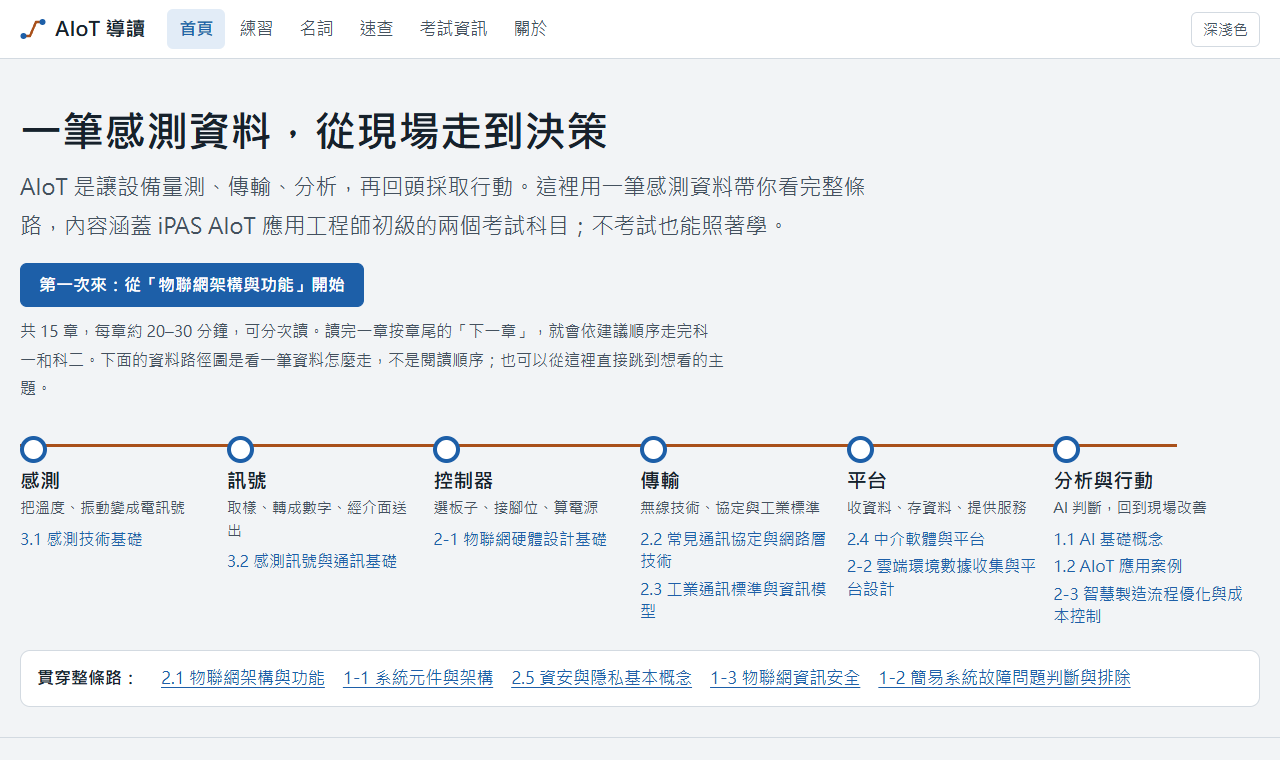
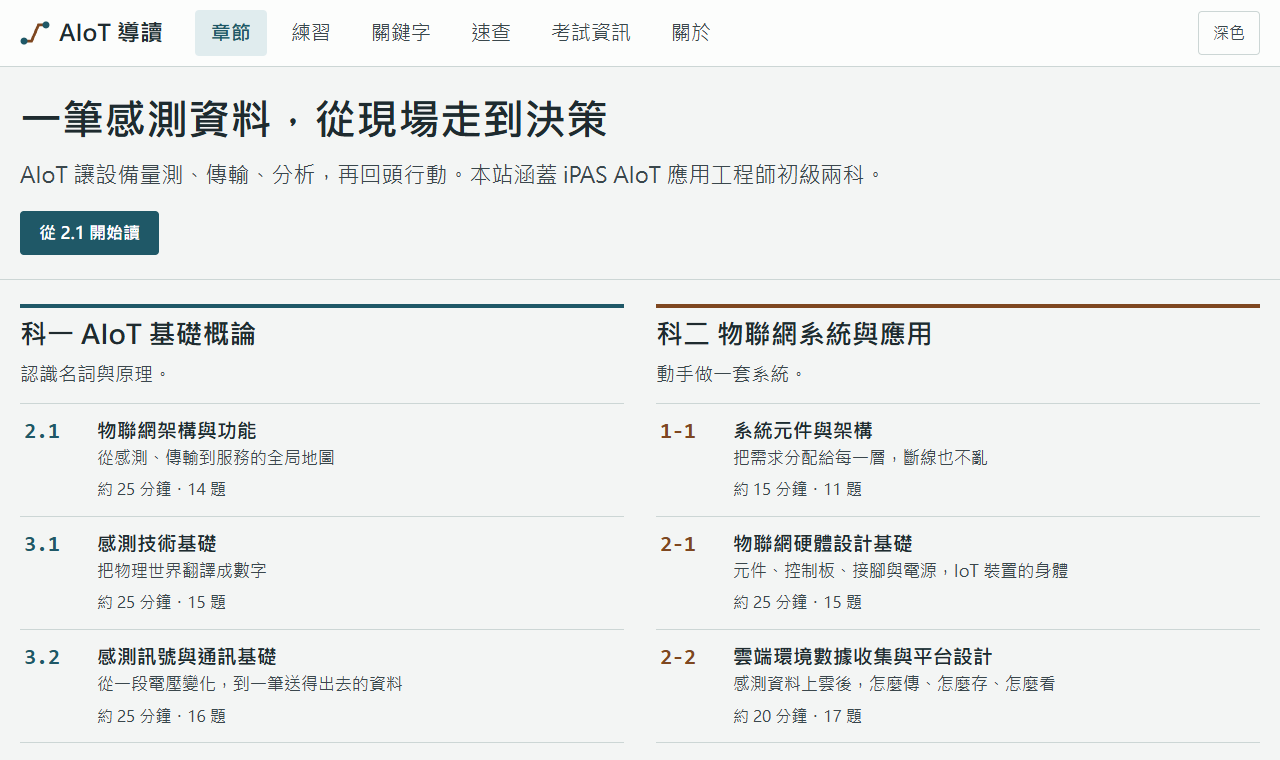
Cut the README to what a visitor needs
Keep what the site is, the link, the unofficial notice and a current
home page screenshot. Drop the chapter table (its counts were out of
date), design notes, checks, structure and the four screenshots only the
README used.

diff --git a/scripts/make-screenshots.js b/scripts/make-screenshots.js
@@ -1,4 +1,4 @@
-// Regenerates README screenshots from a built dist/. Needs: node scripts/serve.mjs 8799 running
+// Regenerates the README screenshot from a built dist/. Needs: node scripts/serve.mjs 8799 running
 // (or SHOT_BASE pointing at any server for dist/). Rerun after changing titles or layout.
 const {chromium} = require('@playwright/test');
 const {mkdirSync} = require('fs');
@@ -15,10 +15,6 @@ mkdirSync('docs/assets', {recursive: true});
     await p.close();
   };
   await shot({width: 1280, height: 760}, 'index.html', 'home.png');
-  await shot({width: 900, height: 900}, 's1-22.html', 'lab-wireless.png', '[data-lab=wireless]');
-  await shot({width: 900, height: 900}, 's1-32.html', 'lab-adc.png', '[data-lab=s1-32-adc]');
-  await shot({width: 390, height: 780}, 's1-22.html', 'mobile-chapter.png');
-  await shot({width: 390, height: 780}, 's2-21.html', 'mobile-lab.png', '[data-lab=s2-21-pin]');
   await b.close();
   console.log('screenshots written');
 })();

diff --git a/README.md b/README.md
@@ -1,103 +1,9 @@
 # AIoT 導讀
 
-**感測器量到一個數字之後，要經過哪些選擇，才變成一個可以行動的決定？**
+給零基礎讀者的 AIoT 學習網站，涵蓋 iPAS「AIoT 應用工程師（初級）」兩個學科。
 
-[線上閱讀](https://kuotunyu.github.io/aiot-guide/)
+**[線上閱讀](https://kuotunyu.github.io/aiot-guide/)**
 
-[![Quality](https://github.com/kuotunyu/aiot-guide/actions/workflows/quality.yml/badge.svg)](https://github.com/kuotunyu/aiot-guide/actions/workflows/quality.yml)
-[![External links](https://github.com/kuotunyu/aiot-guide/actions/workflows/link-health.yml/badge.svg)](https://github.com/kuotunyu/aiot-guide/actions/workflows/link-health.yml)
-[![Code: MIT](https://img.shields.io/badge/code-MIT-yellow.svg)](LICENSE)
-[![Content: CC BY 4.0](https://img.shields.io/badge/content-CC%20BY%204.0-lightgrey.svg)](LICENSE-CONTENT.md)
+> 個人製作的非官方網站，與 iPAS 及主辦單位無關，不收錄官方試題。考試規則以官方公告為準。
 
-給想學 AIoT、或正在準備 iPAS「AIoT 應用工程師（初級）」兩個學科的人的繁體中文學習網站。不需要 AI、電子或網路背景。全部內容跟著同一家冷鏈物流公司走：冷藏庫的探頭、全台跑的貨車、每天進出倉的貨箱，都要把資料送上平台。
-
-> 本站為個人製作的非官方網站，與 iPAS、經濟部及主辦、承辦、執行單位無關，也不收錄官方歷屆試題。考試規則請以官方公告為準。
-
-![首頁：一筆感測資料的路徑](docs/assets/home.png)
-
-## 畫面
-
-| 替需求選無線技術：看誰被排除、為什麼 | 取樣與 ADC：調參數看混疊與量化 |
-|---|---|
-| ![無線選型實驗](docs/assets/lab-wireless.png) | ![取樣與 ADC 實驗](docs/assets/lab-adc.png) |
-
-<div align="center">
-<img src="docs/assets/mobile-chapter.png" width="260" alt="手機版章節頁"> <img src="docs/assets/mobile-lab.png" width="260" alt="手機版實驗">
-</div>
-
-## 內容
-
-15 章對應官方評鑑內容，共 25 個互動實驗、81 張圖解、8 支動畫、205 題自編練習與 267 個關鍵字。
-
-| 科目 | 章 | 動手做什麼 |
-|---|---|---|
-| 科一 | 1.1 AI 基礎概念 | 判斷模型該放邊緣還是雲端 |
-| 科一 | 1.2 AIoT 應用案例 | 調壓縮機告警門檻，比較誤報與漏報的代價 |
-| 科一 | 2.1 物聯網架構與功能 | 把元件分到三層；點路徑看斷在哪一段 |
-| 科一 | 2.2 通訊協定與網路技術 | 選無線技術；寫 MQTT 訂閱條件；看 QoS 遇到遺失時的行為 |
-| 科一 | 2.3 工業通訊標準與資訊模型 | 比較 Modbus 暫存器與 OPC UA 節點 |
-| 科一 | 2.4 中介軟體與平台 | 替資料選儲存方式；切換雲端責任分工 |
-| 科一 | 2.5 資安與隱私 | 選對加密與簽章的鑰匙；把事件對應到 CIA |
-| 科一 | 3.1 感測技術基礎 | 探頭打靶，分清準確度與精密度；算 Pt100 與冷接點補償 |
-| 科一 | 3.2 感測訊號與通訊基礎 | 調取樣率與位元數；替連線選介面 |
-| 科二 | 1-1 系統元件與架構 | 模擬貨車進隧道的暫存與補傳 |
-| 科二 | 1-2 故障判斷與排除 | 自己選檢查項目，從線索推原因 |
-| 科二 | 1-3 物聯網資訊安全 | 重放攻擊與不同防護的結果 |
-| 科二 | 2-1 硬體設計基礎 | 上拉、下拉、浮接；估算電池續航 |
-| 科二 | 2-2 雲端數據與平台 | 比較輪詢、長輪詢與 WebSocket；比較資料格式大小 |
-| 科二 | 2-3 智慧製造與成本 | 拆解 OEE；算投資回收期 |
-
-另有[練習](https://kuotunyu.github.io/aiot-guide/practice.html)、[關鍵字](https://kuotunyu.github.io/aiot-guide/glossary.html)、[公式與重點速查](https://kuotunyu.github.io/aiot-guide/reference.html)與[考試資訊](https://kuotunyu.github.io/aiot-guide/exam.html)。每章都能由瀏覽器語音朗讀。
-
-## 教學設計
-
-- **先判斷，再展開。** 每節先給一個情境題，答案預設收起。核心內容放主文，規格數字與版本演進收在可展開的區塊，但不刪除。
-- **同一個案例貫穿全站。** 不用每章重新理解一個新情境，也看得出章節之間怎麼接起來。
-- **實驗教取捨，不教按鈕。** 只在動手比讀文字更清楚時才做。簡化模型會在介面上明說，沒有分數、徽章或倒數。
-- **不押題。** 不寫出題頻率，也不把分數當成通過機率。容易混淆的地方另外整理。
-- **事實可回查。** 每章列出參考的標準與原廠文件。官方指引和通行事實不一致時，主文寫通行事實，並註明差異。
-
-## 工程
-
-純靜態網站：內容是 `content/` 裡的 JSON，`build.py` 用 Python 標準函式庫產生 `dist/`，瀏覽器端不用框架，也不載入任何外部資源或追蹤程式。`dist/` 可以直接雙擊開啟，影片與實驗都能離線使用。
-
-| 檢查 | 內容 |
-|---|---|
-| Playwright | 桌面與手機兩種裝置，每頁無 console 錯誤、無外部請求、無橫向捲動；每個實驗實際操作 40 步；練習、關鍵字搜尋、朗讀、深淺色流程 |
-| axe-core | 不允許 critical 與 serious 等級的無障礙問題 |
-| 實驗邏輯 | 每章的純函式都有測試，數值經手算核對；MQTT 比對用規格書的範例 |
-| 靜態檢查 | 內部連結與錨點、結構化資料、對比度下限、資產預算、禁用語、sitemap |
-| 建置檢查 | HTML 與 SVG 規格、marker id 唯一、禁用語 |
-| 外部連結 | 每週用 lychee 檢查來源是否失效 |
-
-```bash
-npm install
-npx playwright install chromium
-npm run check
-```
-
-已安裝 Edge 時可設定 `PW_CHANNEL=msedge` 跳過瀏覽器下載。修改內容前請讀 [AGENTS.md](AGENTS.md)。
-
-## 與 AI 協作
-
-內容、圖解、實驗與測試由 AI coding agent 撰寫，取捨與驗收由作者決定。每章經過獨立審查，查事實、實驗邏輯與來源。AI 仍可能出錯，發現問題歡迎[開 issue](https://github.com/kuotunyu/aiot-guide/issues)。
-
-## 刻意不做的事
-
-- 不收錄官方歷屆試題與官方 PDF。
-- 不做帳號、進度追蹤、讀書計畫或遊戲化。
-- 不引入框架、後端或第三方追蹤。
-
-## 專案結構
-
-```text
-content/    15 章 JSON、網站設定、題庫與修訂
-static/     樣式、互動程式、各章實驗、動畫、圖示
-build.py    產生 dist/
-scripts/    靜態檢查、測試伺服器、分享卡與截圖
-tests/      各章實驗的邏輯測試、tests/e2e 瀏覽器測試
-```
-
-## 授權
-
-程式碼採 [MIT](LICENSE)，文字、圖解、動畫與練習題採 [CC BY 4.0](LICENSE-CONTENT.md)。「iPAS」等名稱屬於其權利人，本站僅用於說明考試範圍。
+![首頁](docs/assets/home.png)
